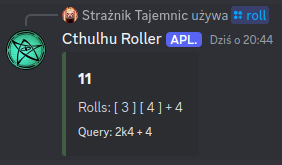
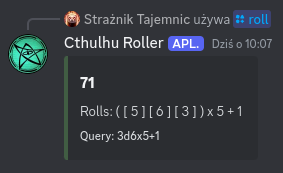
Update readme

Changed region(s): [[0.1986, 0.1818, 0.9645, 0.9394], [0.0, 0.0303, 0.9645, 0.4242]]

diff --git a/README.md b/README.md
@@ -8,14 +8,34 @@
 
 ## Usage
 
-```text
-/roll 2d4+4
-```
+### Croll
 
-![roll](docs/roll.png)
+Call of Cthulhu 7E skill test roller with bonus and penalty dice being resolved automatically for easier adding circumstances of the roll, for example: test you firearms skill test of threshold `70`, you've been aiming entire previous round (`bonus`), target is really big (`bonus`) but moving fast (`penalty`) so you can roll `70bbp`.
+
+Syntax: `<threshold>` `<bonus die>/<penalty die>...`
+
+Examples:
+
+`50`, `50p`, `70bb`, `20bbppp`
 
 ```text
 /croll 60ppb
 ```
 
 ![croll](docs/croll.png)
+
+### Roll
+
+Generic dice roller with multiplier and modifier (modifier is not multiplied).
+
+Syntax: `<optional number of dice>` `d/k` `<sides>` `<optional multiplier>` `<optional modifier>`
+
+Examples:
+
+`2d4`, `3k6`, `24k6+10`, `12d8x3`, `6d6x6+6`
+
+```text
+/roll 3d6x5+1
+```
+
+![roll](docs/roll.png)
